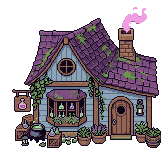
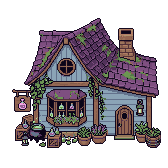
Swap in Rex's new potion cottage picture; chimney smoke for the potion and fishing shops
The new cottage has no painted smoke, so its chimney gets the game's own smoke (pink, as before);
the fishing shack's chimney gets grey smoke. The cottage stays where it was (door point re-measured).

Claude-Session: https://claude.ai/code/session_01UyEsHhhwY5pbE3D4yW6PxM

Changed region(s): [[0.625, 0.5655, 0.8036, 0.8333], [0.7143, 0.0298, 0.8929, 0.2083]]

diff --git a/docs/PROJECT_SUMMARY.md b/docs/PROJECT_SUMMARY.md
@@ -98,6 +98,8 @@ A handoff for a new Claude chat. Read this first, then `CLAUDE.md` (project rule
     (`tools/gen_wizard_interior.py`: old stone bricks for the floor and back wall; its arched window
     is left see-through so the animated night sky `wiz_window.png` shows from behind). In both,
     the counter is also a separate y-sorted sprite (group `y_sorted`) that hides the keeper's feet.
+    The fishing shop is Rex's generated room too (`tools/gen_fishing_interior.py`): its see-through
+    floor is repainted as planks lined up with the seams left in the picture.
     The pet shop too (`tools/gen_pet_interior.py`): the little dragon idles in the left nest (Rex's
     10 frames, `art/pet_dragon_src`; the first frame holds 2 s) and the sleeping fat dragon
     (`pet_pen.png` without its straw) lies in the big nest.
